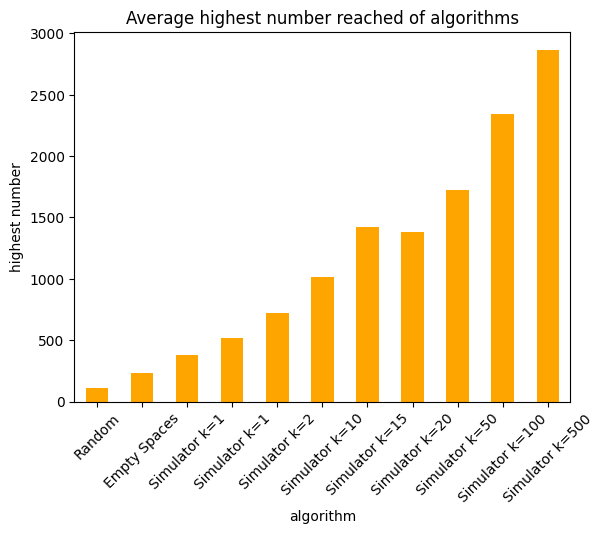
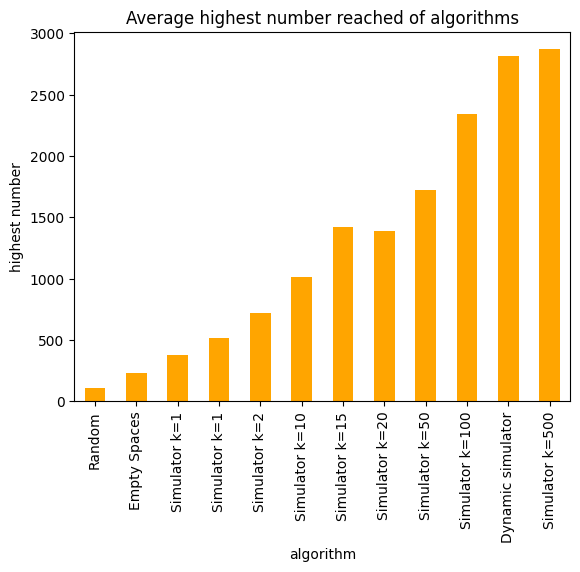
dynamic simulator efficiency analysis

diff --git a/analysis.py b/analysis.py
@@ -28,9 +28,10 @@ s020 = import_file_as_db("simulator20", "simulator", 20)
 s050 = import_file_as_db("simulator50", "simulator", 50) 
 s100 = import_file_as_db("simulator100", "simulator", 100)
 s500 = import_file_as_db("simulator500", "simulator", 500)
+sdyn = import_file_as_db("dynamicsimulator", "simulator", "dynamic")
 
 # merged dataframe from all data
-df = pd.concat([espa,rand,s001,s002,s005,s010,s015,s020,s050,s100,s500])
+df = pd.concat([espa,rand,s001,s002,s005,s010,s015,s020,s050,s100,s500,sdyn])
 df["score"] = pd.to_numeric(df["score"])
 df["highest_reached"] = pd.to_numeric(df["highest_reached"])
 
@@ -40,15 +41,16 @@ df["highest_reached"] = pd.to_numeric(df["highest_reached"])
 # ~~~~~~~~~~~~~~~~~~~~~~~~~~~~~~~~~
 
 histdf = df.groupby(by=["algorithm", "depth"], dropna=False).mean().sort_values(by="score")
+print(histdf)
 
-graph1 = histdf.plot.bar(y="score", rot=45, legend=None, color="navy")
+graph1 = histdf.plot.bar(y="score", rot=90, legend=None, color="navy")
 graph1.set(title="Average score of algorithms", xlabel="algorithm", ylabel="score")
-graph1.set_xticklabels(["Random", "Empty Spaces", "Simulator k=1", "Simulator k=1", "Simulator k=2", "Simulator k=10", "Simulator k=15", "Simulator k=20", "Simulator k=50", "Simulator k=100", "Simulator k=500"])
+graph1.set_xticklabels(["Random", "Empty Spaces", "Simulator k=1", "Simulator k=1", "Simulator k=2", "Simulator k=10", "Simulator k=15", "Simulator k=20", "Simulator k=50", "Simulator k=100", "Dynamic simulator", "Simulator k=500"])
 plt.savefig('plots/graph1.png', bbox_inches = 'tight')
 
-graph2 = histdf.plot.bar(y="highest_reached", rot=45, color="orange", legend=None)
+graph2 = histdf.plot.bar(y="highest_reached", rot=90, color="orange", legend=None)
 graph2.set(title="Average highest number reached of algorithms", xlabel="algorithm", ylabel="highest number")
-graph2.set_xticklabels(["Random", "Empty Spaces", "Simulator k=1", "Simulator k=1", "Simulator k=2", "Simulator k=10", "Simulator k=15", "Simulator k=20", "Simulator k=50", "Simulator k=100", "Simulator k=500"])
+graph2.set_xticklabels(["Random", "Empty Spaces", "Simulator k=1", "Simulator k=1", "Simulator k=2", "Simulator k=10", "Simulator k=15", "Simulator k=20", "Simulator k=50", "Simulator k=100", "Dynamic simulator", "Simulator k=500"])
 plt.savefig('plots/graph2.png', bbox_inches = 'tight')
 
 # ~~~~~~~~~~~~~~~~~~~~~~~~~~~~~~~~~
@@ -84,3 +86,9 @@ graph7 = sns.displot(df500, x="score", bins=30, color="navy")
 graph7.set(title="Distribution of Simulator with k=500", xlabel="score", ylabel="distribution")
 plt.vlines(np.quantile(df500.score, 0.1), 0, 35, linestyles='dashed', colors='red')
 plt.savefig('plots/graph7.png', bbox_inches = 'tight')
+
+dfdyn = df[(df.algorithm == "simulator") & (df.depth == "dynamic")]
+graph8 = sns.displot(dfdyn, x="score", bins=30, color="orange")
+graph8.set(title="Distribution of Dynamic simulator", xlabel="score", ylabel="distribution")
+plt.vlines(np.quantile(dfdyn.score, 0.1), 0, 35, linestyles='dashed', colors='red')
+plt.savefig('plots/graph8.png', bbox_inches = 'tight')

diff --git a/src/Main.java b/src/Main.java
@@ -1,5 +1,9 @@
 import java.awt.Color;
 import java.io.File;
+import java.io.FileWriter;
+import java.time.Duration;
+import java.time.Instant;
+import java.util.Random;
 
 import javax.imageio.ImageIO;
 
@@ -34,28 +38,37 @@ public class Main {
         frame.pack();
         frame.setVisible(true);
         
-/*         Random rand = new Random(System.currentTimeMillis());
+        Random rand = new Random(System.currentTimeMillis());
 
         Game newGame = new Game(4);
-        for (int i = 0; i < 11; i++) {
-            FileWriter fw = new FileWriter("data/simulator500.txt", true);
+        for (int i = 0; i < 10; i++) {
+            FileWriter fw = new FileWriter("data/time.txt", true);
             newGame = new Game(4);
-            newGame.gameMode = false;
+            newGame.gameMode = true;
             newGame.spawnRandomNumber();
             frame.panel.game = newGame;
 
-            while (newGame.status()) {
-                newGame.simulateMove(500, rand);
+            Instant start = Instant.now();
+            int movesNumber = 0;
+
+            while (newGame.status() && !newGame.win()) {
+                newGame.simulateMove(500, rand);;
                 frame.panel.repaint();
+                movesNumber++;
             }
 
-            String str = Integer.toString(newGame.score) + "," + Integer.toString(newGame.maxNumber());
+            Instant end = Instant.now();
+            Duration timeElapsed = Duration.between(start, end);
+            
+            //String str = Integer.toString(newGame.score) + "," + Integer.toString(newGame.maxNumber());
 
-            fw.write(str);
+            fw.write(Integer.toString(movesNumber));
+            fw.write(",");
+            fw.write(Long.toString(timeElapsed.toMillis()));
             fw.write("\n");
             fw.close();
             System.out.println(i + 1);
-        } */
+        } 
 
     }
 }

diff --git a/src/basic/Game.java b/src/basic/Game.java
@@ -782,7 +782,7 @@ public class Game {
 
     // fourth ai: simulator with dynamic depth
     public void simulateMoveDynamic(Random rand) {
-        if (this.score < 6700) {
+        if (this.score < 6000) {
             simulateMove(50, rand);
         }
         else if (this.score < 7500) {
@@ -801,7 +801,7 @@ public class Game {
             simulateMove(500, rand);
         }
         else if (this.score < 22000) {
-            simulateMove(50, rand);
+            simulateMove(100, rand);
         }
         else if (this.score < 23600) {
             simulateMove(500, rand);
